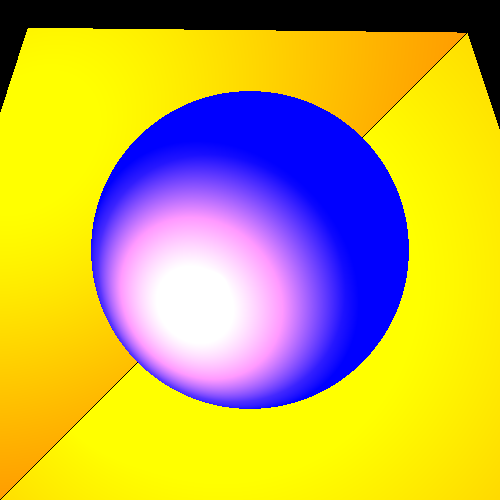
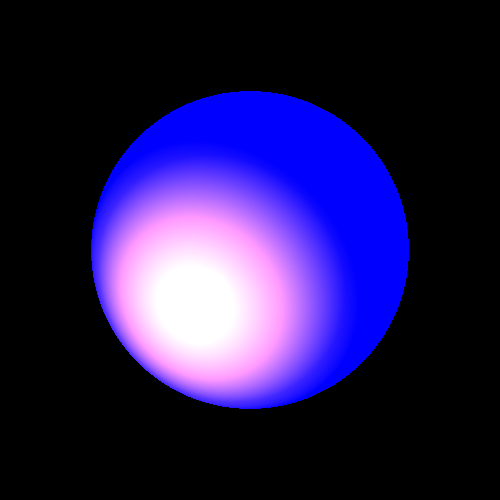
Shadow add on

diff --git a/src/unittests/lights/ShadowTests.java b/src/unittests/lights/ShadowTests.java
@@ -1,0 +1,192 @@
+package unittests.lights;
+
+import org.junit.Test;
+
+import elements.*;
+import geometries.*;
+import primitives.*;
+import renderer.*;
+import scene.Scene;
+
+/**
+ * @author Dan
+ */
+public class ShadowTests {
+        private Scene scene = new Scene("Test scene");
+        private Camera camera = new Camera(new Point3D(0, 0, 1000), new Vector(0, 1, 0), new Vector(0, 0, -1)) //
+                        .setViewPlaneSize(200, 200).setDistance(1000);
+
+        /**
+         * Produce a picture of a sphere and triangle with point light and shade
+         */
+        @Test
+        public void sphereTriangleInitial() {
+                scene.geometries.add( //
+                                new Sphere(new Point3D(0, 0, -200), 60) //
+                                                .setEmmission(new Color(java.awt.Color.BLUE)) //
+                                                .setMaterial(new Material().setkD(0.5).setkS(0.5).setShininess(30)), //
+                                new Triangle(new Point3D(-70, -40, 0), new Point3D(-40, -70, 0),
+                                                new Point3D(-68, -68, -4)) //
+                                                                .setEmmission(new Color(java.awt.Color.BLUE)) //
+                                                                .setMaterial(new Material().setkD(0.5).setkS(0.5)
+                                                                                .setShininess(30)) //
+                );
+                scene.lights.add( //
+                                new SpotLight(new Color(400, 240, 0), new Point3D(-100, -100, 200),
+                                                new Vector(1, 1, -3)) //
+                                                                .setKL(1E-5).setKQ(1.5E-7));
+
+                Render render = new Render(). //
+                                setImageWriter(new ImageWriter("shadowSphereTriangleInitial", 400, 400)) //
+                                .setCamera(camera) //
+                                .setRayTrace(new RayTracerBasic(scene));
+                render.renderImage();
+                render.writeToImage();
+        }
+
+        /**
+         * Produce a picture of a two triangles lighted by a spot light with a Sphere
+         * producing a shading
+         */
+        @Test
+        public void trianglesSphere() {
+                scene.setAmbientLight(new AmbientLight(new Color(java.awt.Color.WHITE), 0.15));
+
+                scene.geometries.add( //
+                                new Triangle(new Point3D(-150, -150, -115), new Point3D(150, -150, -135),
+                                                new Point3D(75, 75, -150)) //
+                                                                .setMaterial(new Material().setkS(0.8)
+                                                                                .setShininess(60)), //
+                                new Triangle(new Point3D(-150, -150, -115), new Point3D(-70, 70, -140),
+                                                new Point3D(75, 75, -150)) //
+                                                                .setMaterial(new Material().setkS(0.8)
+                                                                                .setShininess(60)), //
+                                new Sphere(new Point3D(0, 0, -115), 30) //
+                                                .setEmmission(new Color(java.awt.Color.BLUE)) //
+                                                .setMaterial(new Material().setkD(0.5).setkS(0.5).setShininess(30)) //
+                );
+                scene.lights.add( //
+                                new SpotLight(new Color(700, 400, 400), new Point3D(40, 40, 115),
+                                                new Vector(-1, -1, -4)) //
+                                                                .setKL(4E-4).setKQ(2E-5));
+
+                Render render = new Render() //
+                                .setImageWriter(new ImageWriter("shadowTrianglesSphere", 600, 600)) //
+                                .setCamera(camera) //
+                                .setRayTrace(new RayTracerBasic(scene));
+                render.renderImage();
+                render.writeToImage();
+        }
+
+        @Test /**
+               * Produce a picture of a sphere and triangle with point light and shade
+               * changing triangle position further
+               */
+        public void sphereTriangleMove1() {
+                scene.geometries.add( //
+                                new Sphere(new Point3D(0, 0, -200), 60) //
+                                                .setEmmission(new Color(java.awt.Color.BLUE)) //
+                                                .setMaterial(new Material().setkD(0.5).setkS(0.5).setShininess(30)), //
+                                new Triangle(new Point3D(-70, -40, 30), new Point3D(-40, -70, 30),
+                                                new Point3D(-68, -68, 26)) //
+                                                                .setEmmission(new Color(java.awt.Color.BLUE)) //
+                                                                .setMaterial(new Material().setkD(0.5).setkS(0.5)
+                                                                                .setShininess(30)) //
+                );
+                scene.lights.add( //
+                                new SpotLight(new Color(400, 240, 0), new Point3D(-100, -100, 200),
+                                                new Vector(1, 1, -3)) //
+                                                                .setKL(1E-5).setKQ(1.5E-7));
+
+                Render render = new Render(). //
+                                setImageWriter(new ImageWriter("sphereTriangleMove1", 400, 400)) //
+                                .setCamera(camera) //
+                                .setRayTrace(new RayTracerBasic(scene));
+                render.renderImage();
+                render.writeToImage();
+        }
+
+        @Test /**
+               * Produce a picture of a sphere and triangle with point light and shade
+               * changing triangle position closer
+               */
+        public void sphereTriangleMove2() {
+                scene.geometries.add( //
+                                new Sphere(new Point3D(0, 0, -200), 60) //
+                                                .setEmmission(new Color(java.awt.Color.BLUE)) //
+                                                .setMaterial(new Material().setkD(0.5).setkS(0.5).setShininess(30)), //
+                                new Triangle(new Point3D(-40, -10, -20), new Point3D(-10, -40, -20),
+                                                new Point3D(-38, -38, -24)) //
+                                                                .setEmmission(new Color(java.awt.Color.BLUE)) //
+                                                                .setMaterial(new Material().setkD(0.5).setkS(0.5)
+                                                                                .setShininess(30)) //
+                );
+                scene.lights.add( //
+                                new SpotLight(new Color(400, 240, 0), new Point3D(-100, -100, 200),
+                                                new Vector(1, 1, -3)) //
+                                                                .setKL(1E-5).setKQ(1.5E-7));
+
+                Render render = new Render(). //
+                                setImageWriter(new ImageWriter("sphereTriangleMove2", 400, 400)) //
+                                .setCamera(camera) //
+                                .setRayTrace(new RayTracerBasic(scene));
+                render.renderImage();
+                render.writeToImage();
+        }
+
+        @Test /**
+               * Produce a picture of a sphere and triangle with point light and shade
+               * changing light further
+               */
+        public void sphereTriangleMove3() {
+                scene.geometries.add( //
+                                new Sphere(new Point3D(0, 0, -200), 60) //
+                                                .setEmmission(new Color(java.awt.Color.BLUE)) //
+                                                .setMaterial(new Material().setkD(0.5).setkS(0.5).setShininess(30)), //
+                                new Triangle(new Point3D(-70, -40, 0), new Point3D(-40, -70, 0),
+                                                new Point3D(-68, -68, -4)) //
+                                                                .setEmmission(new Color(java.awt.Color.BLUE)) //
+                                                                .setMaterial(new Material().setkD(0.5).setkS(0.5)
+                                                                                .setShininess(30)) //
+                );
+                scene.lights.add( //
+                                new SpotLight(new Color(400, 240, 0), new Point3D(-110, -110, 190),
+                                                new Vector(1, 1, -3)) //
+                                                                .setKL(1E-5).setKQ(1.5E-7));
+
+                Render render = new Render(). //
+                                setImageWriter(new ImageWriter("sphereTriangleMove3", 400, 400)) //
+                                .setCamera(camera) //
+                                .setRayTrace(new RayTracerBasic(scene));
+                render.renderImage();
+                render.writeToImage();
+        }
+
+        @Test
+        /**
+         * Produce a picture of a sphere and triangle with point light and shade
+         * changing light closer
+         */
+        public void sphereTriangleMove4() {
+                scene.geometries.add( //
+                                new Sphere(new Point3D(0, 0, -200), 60) //
+                                                .setEmmission(new Color(java.awt.Color.BLUE)) //
+                                                .setMaterial(new Material().setkD(0.5).setkS(0.5).setShininess(30)), //
+                                new Triangle(new Point3D(-70, -40, 0), new Point3D(-40, -70, 0),
+                                                new Point3D(-68, -68, -4)) //
+                                                                .setEmmission(new Color(java.awt.Color.BLUE)) //
+                                                                .setMaterial(new Material().setkD(0.5).setkS(0.5)
+                                                                                .setShininess(30)) //
+                );
+                scene.lights.add( //
+                                new SpotLight(new Color(400, 240, 0), new Point3D(-75, -75, 65), new Vector(1, 1, -3)) //
+                                                .setKL(1E-5).setKQ(1.5E-7));
+
+                Render render = new Render(). //
+                                setImageWriter(new ImageWriter("sphereTriangleMove4", 400, 400)) //
+                                .setCamera(camera) //
+                                .setRayTrace(new RayTracerBasic(scene));
+                render.renderImage();
+                render.writeToImage();
+        }
+}

diff --git a/src/renderer/RayTracerBasic.java b/src/renderer/RayTracerBasic.java
@@ -8,11 +8,16 @@ import geometries.Intersectable.GeoPoint;
 
 import primitives.Color;
 import primitives.Material;
+import primitives.Point3D;
 import primitives.Ray;
 import primitives.Vector;
 import scene.Scene;
 
 public class RayTracerBasic extends RayTraceBase {
+    /**
+     * for the size of moving ray’s heads for shadow rays
+     */
+    private static final double DELTA = 0.1;
 
     public RayTracerBasic(Scene scene) {
         super(scene);
@@ -77,10 +82,12 @@ public class RayTracerBasic extends RayTraceBase {
         for (LightSource light : scene.lights) {
             Vector l = light.getL(point.point);
             double nl = alignZero(n.dotProduct(l));
-            if (nl * nv > 0) {
+            if (unshaded(light, l, n, point) && nl * nv > 0) {
+
                 Color lightIntensity = light.getIntensity(point.point);
                 color = color.add(calcDiffusive(kd, l, n, lightIntensity),
                         calcSpecular(ks, l, n, v, nShininess, lightIntensity));
+
             }
         }
         return color;
@@ -115,7 +122,7 @@ public class RayTracerBasic extends RayTraceBase {
      *
      * * this is a helper method that calculates Diffusive part of the simple phong
      * model
-     * 
+     *
      * @param kd
      * @param l
      * @param n
@@ -127,6 +134,23 @@ public class RayTracerBasic extends RayTraceBase {
         double ln = Math.abs(l.dotProduct(n));
 
         return lightIntensity.scale(ln * kd);
+    }
+
+    private boolean unshaded(LightSource light, Vector l, Vector n, GeoPoint gpoint) {
+        Vector lightDirection = l.scale(-1);
+        Vector delta = n.scale(n.dotProduct(lightDirection) > 0 ? DELTA : -DELTA);
+        Point3D point = gpoint.point.add(delta);
+        Ray lightRay = new Ray(point, lightDirection);
+
+        List<GeoPoint> intersections = scene.geometries.findGeoIntersections(lightRay);
+        if (intersections == null)
+            return true;
+        double lightDistance = light.getDistance(gpoint.point);
+        for (GeoPoint gp : intersections) {
+            if (alignZero(gp.point.distance(gpoint.point) - lightDistance) <= 0)
+                return false;
+        }
+        return true;
     }
 
 }

diff --git a/src/elements/DirectionalLight.java b/src/elements/DirectionalLight.java
@@ -28,7 +28,7 @@ public class DirectionalLight extends Light implements LightSource {
 
     /**
      * get intensity method for the DirectionalLight class
-     * 
+     *
      * @param p
      * @return Color
      */
@@ -39,12 +39,17 @@ public class DirectionalLight extends Light implements LightSource {
 
     /**
      * GetL method for the DirectionalLight class
-     * 
+     *
      * @param p
      * @return Vector
      */
     @Override
     public Vector getL(Point3D p) {
         return direction;
+    }
+
+    @Override
+    public double getDistance(Point3D point) {
+        return Double.POSITIVE_INFINITY;
     }
 }

diff --git a/src/elements/LightSource.java b/src/elements/LightSource.java
@@ -14,7 +14,7 @@ public interface LightSource {
 
     /**
      * GetIntensity function
-     * 
+     *
      * @param p
      * @return color
      */
@@ -22,10 +22,12 @@ public interface LightSource {
 
     /**
      * GetL function
-     * 
+     *
      * @param p
      * @return Vector
      */
     public Vector getL(Point3D p);
+
+    double getDistance(Point3D point);
 
 }

diff --git a/src/elements/PointLight.java b/src/elements/PointLight.java
@@ -106,4 +106,9 @@ public class PointLight extends Light implements LightSource {
         return p.subtract(position).normalize();
     }
 
+    @Override
+    public double getDistance(Point3D point) {
+        return position.distance(point);
+    }
+
 }
